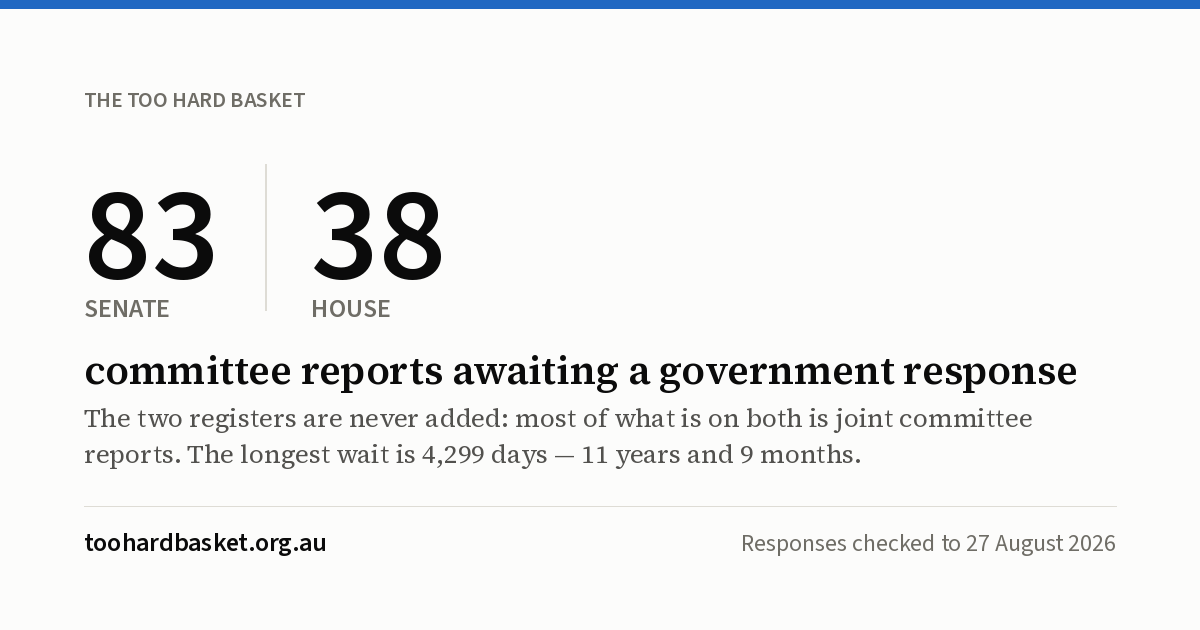
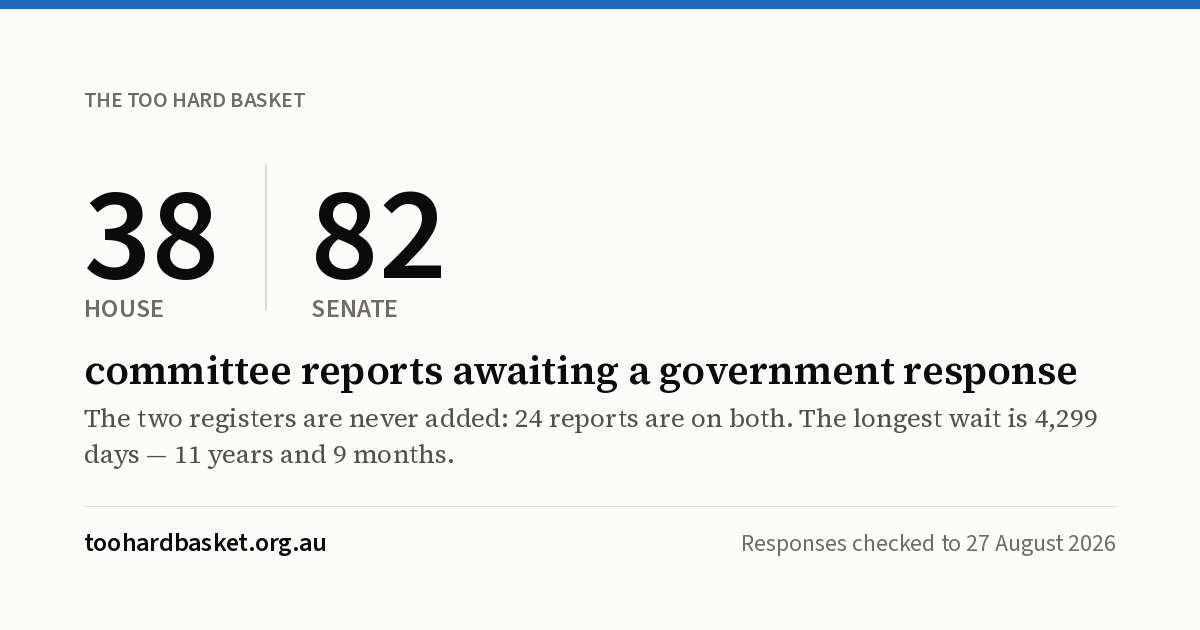
Say what the data says: the President is "she", "most" only where it is most, and the sentences the site had outgrown
The President of the Senate is Senator Sue Lines. Twelve sentences
across five pages and this log called her "he". Fixed everywhere,
comments included.

"Most of what is on both registers is joint committee reports" was
true of the House register (32 of 38) and not of the Senate's (38 of
82), and the Senate page's own figures contradicted its opening
sentence. The home page now gives both registers' figures and the
number on both; the register pages say "most" only when their own
share makes it so; the link preview card says how many are on both.

The link preview card said 83 Senate reports where the pages said 82:
drawn before two answered reports came off, never redrawn. Redrawn
from the data, House first as on the site.

The responses page's eyebrow still said "Senate and joint committee
reports" although the log of 2 September records that as fixed — 74
of the 623 responses were tabled only in the House. Its headline
counted "committee reports closed" where the unit is responses.

The search page printed a typed figure — 255 responses yielding
nothing — on a site that says every number is counted. It was 227,
and for 76 of those the report has since been read instead. All three
are now counted at build. Two figures on that page ran into the word
after them ("571results", "the5,146").

And the sentences overtaken by the site's own progress: pre-2022
reports are linked now, to the committee's page; every House row is
[…]

Changed region(s): [[0.0617, 0.6333, 0.925, 0.754], [0.0617, 0.3016, 0.185, 0.5127], [0.2467, 0.3016, 0.37, 0.5127]]

diff --git a/site/src/lib/data.ts b/site/src/lib/data.ts
@@ -86,7 +86,7 @@ export interface Obligation {
   /**
    * The presiding officer records nothing but "the Government's response is
    * being considered". The President marks these "Interim*" and defines the
-   * asterisk on page 2 of his own report; the Speaker writes the sentence out.
+   * asterisk on page 2 of her own report; the Speaker writes the sentence out.
    */
   beingConsidered: boolean;
   /** Answered for some recommendations and not others. */
@@ -98,8 +98,9 @@ export interface Obligation {
    */
   overdue: boolean;
   /**
-   * A joint committee's report, presented to both houses. Most of what is on
-   * both registers is joint, which is why neither is only its own chamber's.
+   * A joint committee's report, presented to both houses. Most of the House
+   * register and nearly half of the Senate's is joint, which is why neither is
+   * only its own chamber's.
    */
   joint: boolean;
   /** The same report is listed on the other register too. Never add the counts. */
@@ -179,7 +180,7 @@ export interface ScheduleMeta {
   beingConsideredTabled?: string;
   /**
    * The date the government's status report is as at, which is NOT the date of
-   * the register. The President's report is as at 30 June and his "Interim*"
+   * the register. The President's report is as at 30 June and her "Interim*"
    * marks come from a government report as at 31 March; presenting both as one
    * date would be dating a March fact June.
    */
@@ -321,12 +322,12 @@ export function history(): HistoryPoint[] {
 }
 
 /**
- * What the President himself recorded as outstanding, edition by edition.
+ * What the President herself recorded as outstanding, edition by edition.
  *
  * The history chart reconstructs the backlog from tabling dates. These are the
- * counts he actually printed. They are not the same number, and the difference
+ * counts she actually printed. They are not the same number, and the difference
  * is not noise: the reconstruction runs about sixty reports high in 2022 and
- * 2023 and twenty to thirty low after the 2024 clear-out, because the two
+ * 2023 and fourteen to thirty-one low after the 2024 clear-out, because the two
  * count slightly different populations. Publishing both is the only honest way
  * to show a series that reaches back further than the record does.
  */
@@ -867,7 +868,7 @@ export function corrections(): Correction[] {
  *
  * The deadline is three calendar months from tabling, not ninety days. The
  * Senate's 1973 resolution says three months, the President's own report says
- * three months, and his "Response provided within 3 months" column marks a
+ * three months, and her "Response provided within 3 months" column marks a
  * 92-day response Yes. Testing 90 days instead counted eleven responses late
  * that the Senate counts on time — an error running against the government,
  * on a site whose whole claim is that every figure it gives is a floor.
@@ -1141,6 +1142,24 @@ export interface QuietResponse {
   chamber: "senate" | "house";
   classification: string;
   url: string;
+}
+
+/**
+ * How many responses in the corpus yield nothing of their own, and how many of
+ * those had their report read instead. The search page used to print a typed
+ * figure for the first — 255, on a page whose whole argument is that its
+ * numbers are counted — and it was wrong by the time it was read.
+ */
+export function quietResponseCounts(): { ofTheirOwn: number; reportReadInstead: number; nothingAtAll: number } {
+  const excluded = new Set(read("scope_exclusions.csv").map((r) => r.id));
+  const rows = read("recommendations.csv");
+  const own = new Set(rows.filter((r) => r.source === "response").map((r) => r.source_id));
+  const viaReport = new Set(rows.filter((r) => r.source === "report" && r.response_id).map((r) => r.response_id));
+  const corpus = read("response_documents.csv").filter((r) => !excluded.has(r.id));
+  const quiet = corpus.filter((r) => !own.has(r.id));
+  const readInstead = quiet.filter((r) => viaReport.has(r.id));
+  return { ofTheirOwn: quiet.length, reportReadInstead: readInstead.length,
+           nothingAtAll: quiet.length - readInstead.length };
 }
 
 export function responsesQuotingNothing(): QuietResponse[] {

diff --git a/site/src/lib/forms.ts b/site/src/lib/forms.ts
@@ -32,7 +32,7 @@ export const FORMS: Form[] = [
       ? {
           example: "A Certain Maritime Incident",
           exampleNote:
-            "18 recommendations, the same sentence 18 times, 23 years after the report was tabled.",
+            "17 recommendations and a heading for the dissenting ones, the same sentence 18 times, 23 years after the report was tabled.",
           otd: "15895",
         }
       : {
@@ -48,7 +48,7 @@ export const FORMS: Form[] = [
     detected: false,
     what: "The recommendations are noted as a group because the thing they concerned has been withdrawn or replaced.",
     example: "Nature Positive (Environment Protection Australia) Bill 2024",
-    exampleNote: "40 recommendations noted together; the bills were withdrawn in February 2025.",
+    exampleNote: "40 recommendations — five of the committee’s and 35 from dissenting reports — noted together; the bills were withdrawn in February 2025.",
     otd: "16059",
   },
   {

diff --git a/scraper/make_og_card.py b/scraper/make_og_card.py
@@ -108,8 +108,11 @@ def duration(days: int) -> str:
 
 def main() -> int:
     senate, house = meta("ledger_meta.json"), meta("house_ledger_meta.json")
-    counts = [("Senate", len(rows("ledger_v2.csv"))),
-              ("House", len(rows("house_ledger.csv")))]
+    # House first, as on the site: the House register is the one the site
+    # leads with, and a card that reverses the order reads as a different site.
+    counts = [("House", len(rows("house_ledger.csv"))),
+              ("Senate", len(rows("ledger_v2.csv")))]
+    on_both = senate.get("on_both_registers") or house.get("on_both_registers") or 0
     if not any(n for _, n in counts):
         sys.exit("Both registers are empty — refusing to draw a card that says nothing.")
 
@@ -140,8 +143,8 @@ def main() -> int:
     d.text((MARGIN, y), "THE TOO HARD BASKET", font=sans(22), fill=MUTED)
     y += 58
 
-    # Two figures, side by side, never added. Most of what is on both registers
-    # is joint committee reports, listed by both presiding officers, so a total
+    # Two figures, side by side, never added. A joint committee report is
+    # listed by both presiding officers, so a total
     # would double-count them — and the site says on every page that the two
     # counts are never added. A card that adds them would be the first thing a
     # departmental officer noticed.
@@ -168,9 +171,10 @@ def main() -> int:
     y += 6
 
     if longest:
-        note = (f"The two registers are never added: most of what is on both is joint "
-                f"committee reports. The longest wait is {longest:,} days — "
-                f"{duration(longest)}.")
+        both = (f"{on_both} reports are on both" if on_both
+                else "a joint committee report is listed on both")
+        note = (f"The two registers are never added: {both}. "
+                f"The longest wait is {longest:,} days — {duration(longest)}.")
         for line in wrap(d, note, serif_r(26), inner):
             d.text((MARGIN, y), line, font=serif_r(26), fill=SECONDARY)
             y += 36
